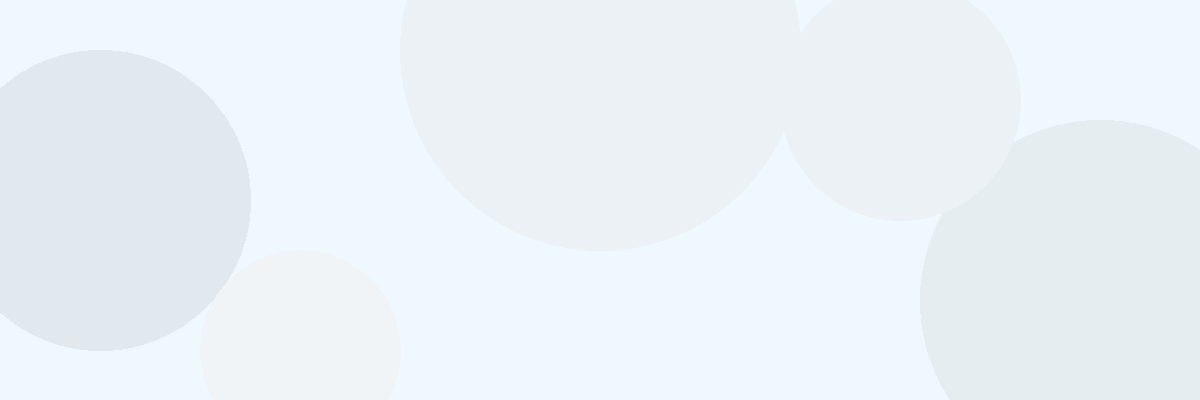
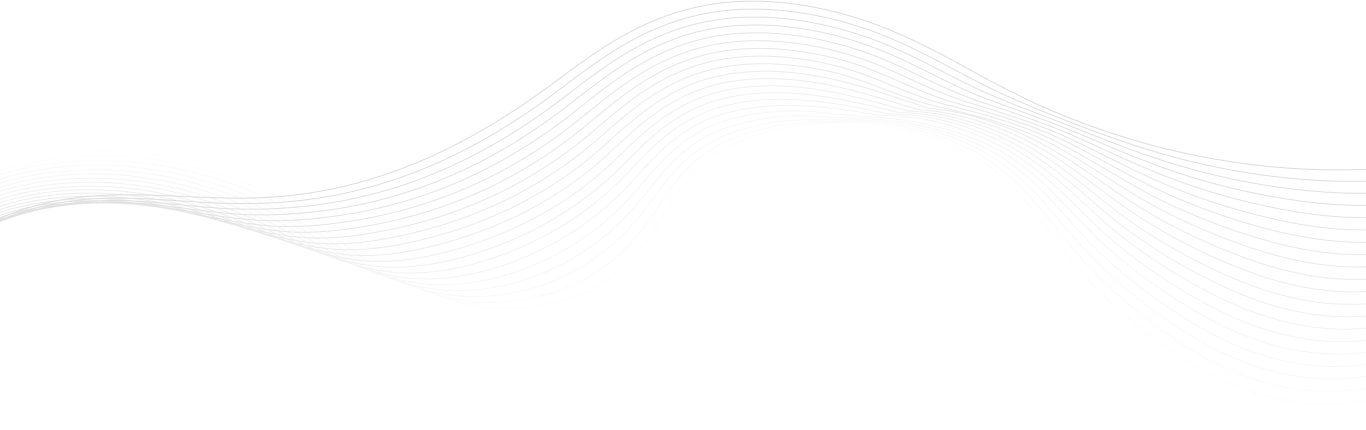
fixed home image issue

Changed region(s): [[0.74, 0.3, 1.0, 1.0], [0.0, 0.12, 0.2158, 0.9]]

diff --git a/style.css b/style.css
@@ -613,11 +613,11 @@ section.processbg .row.pt-4 {
 }
 
 .countbg {
-    background-image: url(img/bg_stats.jpg);
+    background-image: url(img/bg_stats.png?v=2);
     background-size: cover;
     background-position: center;
     background-repeat: no-repeat;
-    background-color: #0d2137;
+    background-color: #004770;
 }
 
 .counter_boxnumber h2 {

diff --git a/index.html b/index.html
@@ -67,7 +67,7 @@
     <script src="script.js"></script>
     <script src="product.js"></script>
     <!-- css-->
-    <link rel="stylesheet" href="style.css" />
+    <link rel="stylesheet" href="style.css?v=2" />
   </head>
 
   <body>
